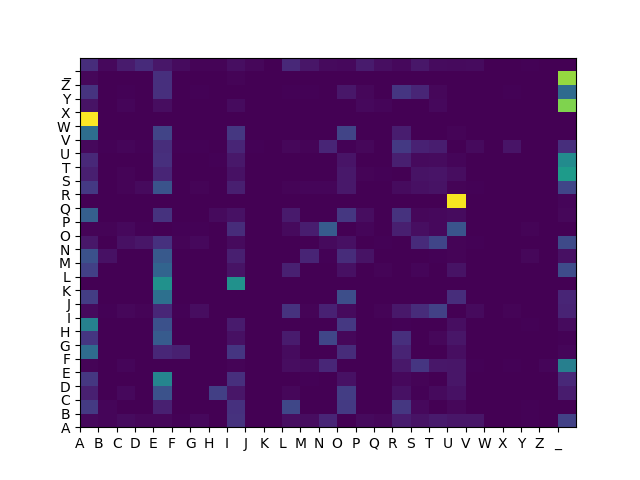
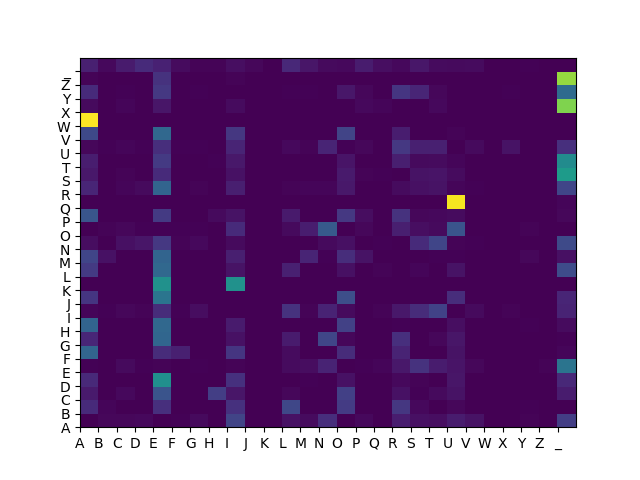
fix fonction echange

diff --git a/fr_metropolis.py b/fr_metropolis.py
@@ -179,14 +179,14 @@ def bigramme(texte):
         retourne    : fréquences des bigrammes du texte (tableau 2D)
     """   
 
-    # matrice 27*27 ou la ligne correspond à la première lettre du bigramme et la colonne à la seconde
+    # matrice ou la ligne correspond à la première lettre du bigramme et la colonne à la seconde
     big=np.zeros((27, 27))       
     cpt=np.zeros((27))
-
+    
     # parcourt du text en lisant un caractère (current) et le suivant (next_)
     # on découpe ainsi le texte en bigrammes
-    # pour cahque bigramme rencontré on incrémente le compteur associé dans le tableau
-    # et le compteur de la famille pour normaliser les résultats à la fin
+    # pour chaque bigramme rencontré on incrémente le compteur associé dans le tableau big
+    # et le compteur de la famille
     s=list(texte)
     current = s[0]
     for next_ in s[1:] :
@@ -195,13 +195,12 @@ def bigramme(texte):
         big[i][j]+=1
         cpt[i]+=1
         current = next_
-    
+
     for i in range(27):
         if cpt[i] != 0:
             for j in range(27):
-                big[i][j] = big[i][j] / cpt[i]
-
-    logging.debug("Initialisation des bigrammes terminées : %s", big)   
+                big[i][j] = big[i][j] / cpt[i]    
+                
     return big
 
 
@@ -247,30 +246,19 @@ def plausibilite(texte):
         Dans l'algorithme de MH, plausibilite = f, fonction proportionnelle à pi
     """
     global fr_bigrams
-    epsilon = 10e-6
-    plau = 0
+
+    #permet d'éviter de prendre log(0) mais reste assez petit pour ne pas influencer le résultat
+    epsilon = 10e-7
+
     # repérage des bigrammes dans le texte, à chaque occurence on ajoute le log
-    # de la propabilité (+ epsilon pour traiter les nuls)
-    # s=list(texte)
-    # current = s[0]
-    # for next_ in s[1:] :
-    #     i = char_to_id(current)
-    #     j = char_to_id(next_)
-    #     #logging.info("bigramme %s%s (%f)", current, next_, np.log(fr_bigrams[i,j] + epsilon))
-    #     plau+=np.log(fr_bigrams[i,j] + epsilon)
-    #     current = next_
-
-    # plau=plau/len(texte)
-    # return plau
-
-    big=np.zeros((26, 27))
+    # de la probabilité (+ epsilon pour traiter les cas nuls)
+    big=np.zeros((27, 27))
     s=list(texte)
     current = s[0]
     for next_ in s[1:] :
-        if current != ' ' :
-            i = char_to_id(current)
-            j = char_to_id(next_)
-            big[i][j]+=np.log(fr_bigrams[i][j] + epsilon)
+        i = char_to_id(current)
+        j = char_to_id(next_)
+        big[i][j]+=np.log(fr_bigrams[i][j] + epsilon)
         current = next_
 
     plau=np.sum(big)/len(texte)
@@ -306,15 +294,24 @@ def dechiffre(texte, code):
         --
         retourne    : texte déchiffré (string)
     """
-    #logging.info("Nouveau code                %s", code)
-    res = ""
-    for c in texte:
+
+    freq = frequence(texte)
+    fk   = list(freq.keys())
+    # copie du texte sous forme de tableau
+    res = list(texte)
+    # chaque lettre du texte est remplacée par son équivalente dans le 
+    # tableau des fréquences de référence.
+    # i est l'indice global de res
+    i=0  
+    for c in res:
         if c != ' ' :
-            i=code.index(c)
-            res += fk_ref[i]
-        else:
-            res += " "
-    return res
+            # indice du caractère dans le tableau ordonné par fréqeunce
+            indice = fk.index(c)
+            # sub = caractère du même indice dans la clef
+            sub = code[indice]
+            res[i]=sub
+        i+=1
+    return ''.join(res)
 
 
 def chiffre(texte):
@@ -337,18 +334,15 @@ def echange(clef):
         --
         retourne    : nouvelle clef
     """
+    liste=list(clef)
+
     i = np.random.randint(0,26)
     j = np.random.randint(0,26)
-
-    # tirage pondéré par la place de la lettre dans le tableau des fréquences
-    #a,b = rd.choices(range(0,26), weights=list(fkv_ref.values()), k=2)
     while i == j:
         j = np.random.randint(0,26)
 
-    logging.debug("Echange %d(%s) et %d(%s)", i, clef[i], j, clef[j])
-    clef[i], clef[j] = clef[j], clef[i]
-    #clef[a], clef[b] = clef[b], clef[a]
-    return clef
+    liste[i], liste[j] = liste[j], liste[i]
+    return ''.join(liste)
 
 
 def acceptation(cur, new):
@@ -364,7 +358,7 @@ def acceptation(cur, new):
         return True
     return False
 
-def metropolis(max_iter, texte_init):
+def metropolis(max_iter, texte_init, code_init):
     """
         Application de l'algorithme de Metropolis-Hastings.
 
@@ -386,19 +380,15 @@ def metropolis(max_iter, texte_init):
     break_plau = -1.6          # max plausibilité calculée à partir de laquelle on estime le résultat juste
     score_mots = 0             # score calculé du message décodé (c.f. fonction score)
 
-    # le premier code est calculé sur la base des fréquences des lettres dans le message codé
-    freq = frequence(texte_init)
-    cur_code  = list(freq.keys())
+    cur_code  = code_init
     cur_texte = dechiffre(texte_init, cur_code)
     # score_mots = score(cur_texte)
     # cur_plau = 4*score_mots + plausibilite(cur_texte)
     cur_plau = plausibilite(cur_texte)
-    logging.info("Code initial (p=%f) %s", cur_plau, cur_code)
-    logging.info("Proposition initiale [%s]", cur_texte)
 
     best_text  = cur_texte
     best_plau  = cur_plau                
-    best_code  = cur_code.copy()
+    best_code  = code_init
 
     cpt=0
     while cpt < max_iter :
@@ -417,21 +407,21 @@ def metropolis(max_iter, texte_init):
         if new_plau > cur_plau:
             cur_texte = new_texte
             cur_plau  = new_plau                
-            cur_code  = new_code.copy()   
+            cur_code  = new_code   
             if new_plau > best_plau:
                 logging.info("(itération %d) Meilleure plausibilité %f", cpt, new_plau)
                 best_text  = new_texte
                 best_plau  = new_plau                
-                best_code  = new_code.copy()     
+                best_code  = new_code     
         else:
             # fonction d'acceptation de Metropolis-Hastings
             x = rd.random()
-            if x <=  (cur_plau / new_plau) * 0.005 : 
+            if x <=  (cur_plau / new_plau) * 0.001 : 
             #if x <= np.exp(new_plau - cur_plau) :
-                logging.info("(itération %d) Dégradation plausibilité %f", cpt, new_plau)
+                logging.info("(itération %d) Dégradation plausibilité de %f vers %f", cpt, cur_plau, new_plau)
                 cur_texte = new_texte
                 cur_plau  = new_plau                
-                cur_code  = new_code.copy()  
+                cur_code  = new_code 
 
     return best_code, best_plau, best_text
 
@@ -459,11 +449,13 @@ fichier = open(r'Les-misérables.txt','r')
 livre = fichier.read()
 fichier.close
 baba = simplifie(livre)
+with open('baba.txt', 'w') as f:
+    f.write(baba)
 # chargement des fréquenes des lettres de référence
 fkv_ref = frequence(baba)
 fk_ref  = list(fkv_ref.keys())
 
-# Chargement des probabilités des bigrammes de référence
+# Calcul des bigrammes de référence
 fr_bigrams = bigramme(baba)
 ic_ref = indice(baba)
 # p = plausibilite(baba)
@@ -525,8 +517,7 @@ enigme = """DN ANTRIE QERT VRE DES EAMNATS SLUEAT EAMNATS NQNAT VRE O ETIE JLFFE
             A N CNS XESLUA OE PE MIEUA"""
 enigme = simplifie(enigme)
 logging.info("---- Déchiffrement d'un extrait d'Emile de JJ Rousseau")
-code, p, solution = metropolis(10000, enigme)
-logging.info("Freq Ref                    %s", fk_ref)
+code, p, solution = metropolis(10000, enigme, fk_ref)
 logging.info("Meilleur code (p=%f) %s", p, code)
 logging.info("Proposition finale [%s]", solution)
 

diff --git a/decode.py b/decode.py
@@ -127,8 +127,8 @@ def bigramme(texte):
 
     # matrice 26*27 ou la ligne correspond à la première lettre du bigramme et la colonne à la seconde
     #un bigramme ne commence pas par un espace (mais peut se terminer par un)
-    big=np.zeros((26, 27))       
-    cpt=np.zeros((26))
+    big=np.zeros((27, 27))       
+    cpt=np.zeros((27))
     
     # parcourt du text en lisant un caractère (current) et le suivant (next_)
     # on découpe ainsi le texte en bigrammes
@@ -137,14 +137,13 @@ def bigramme(texte):
     s=list(texte)
     current = s[0]
     for next_ in s[1:] :
-        if current != ' ' :
-            i = char_to_id(current)
-            j = char_to_id(next_)
-            big[i][j]+=1
-            cpt[i]+=1
+        i = char_to_id(current)
+        j = char_to_id(next_)
+        big[i][j]+=1
+        cpt[i]+=1
         current = next_
 
-    for i in range(26):
+    for i in range(27):
         if cpt[i] != 0:
             for j in range(27):
                 big[i][j] = big[i][j] / cpt[i]    
@@ -204,14 +203,13 @@ def plausibilite(texte, big_ref):
 
     # repérage des bigrammes dans le texte, à chaque occurence on ajoute le log
     # de la probabilité (+ epsilon pour traiter les cas nuls)
-    big=np.zeros((26, 27))
+    big=np.zeros((27, 27))
     s=list(texte)
     current = s[0]
     for next_ in s[1:] :
-        if current != ' ' :
-            i = char_to_id(current)
-            j = char_to_id(next_)
-            big[i][j]+=np.log(big_ref[i][j] + epsilon)
+        i = char_to_id(current)
+        j = char_to_id(next_)
+        big[i][j]+=np.log(big_ref[i][j] + epsilon)
         current = next_
 
     plau=np.sum(big)/len(texte)
@@ -347,6 +345,13 @@ p = plausibilite(baba, big_ref)
     de Monte-Carlo que l'on va itérer un certain nombre de fois.
 """
 enigme='Lo zotf jwt stl mokaosstwkl rt sa souft kafutl tm a s ayywm rtkkotkt stwk stxtt rt haxtl, tm stl mokaosstwkl rt sa zafsotwt dalltl a s afust rt sa kwt, lt dgfmktktfm lgwraoftdtfm  jwtsjwt eiglt jwo ktdwaom rafl sa ywdtt.'
+enigme = """DN ANTRIE QERT VRE DES EAMNATS SLUEAT EAMNATS NQNAT VRE O ETIE JLFFES SU ALRS QLRDLAS CEIQEITUI 
+            PET LIOIE ALRS CILORUILAS OES MIRUTS CIEPLPES VRU A NRILAT AU FNTRIUTE AU SNQERI ET AE TNIOEILAT 
+            CNS N SE PLIILFCIE ALRS NRILAS OE HERAES OLPTERIS ET OE QUERB EAMNATS D EAMNAPE N OES FNAUEIES OE 
+            QLUI OE CEASEI OE SEATUI VRU DRU SLAT CILCIES IUEA A EST FLUAS SEASE VRE O Y QLRDLUI SRXSTUTREI 
+            DES ALTIES ET H NUFEINUS NRTNAT EBUGEI VR EAMNAT ERT PUAV CUEOS OE JNRT VRE OR HRGEFEAT N OUB 
+            NAS EA EMMET N VRLU DRU SEIQUINUT DN INUSLA N PET NGE EDDE EST DE MIEUA OE DN MLIPE ET D EAMNAT 
+            A N CNS XESLUA OE PE MIEUA"""
 baba = simplifie(enigme)
 prop = dechiffrer(baba, list(freq_ref.keys()))
 p = plausibilite(prop, big_ref)
